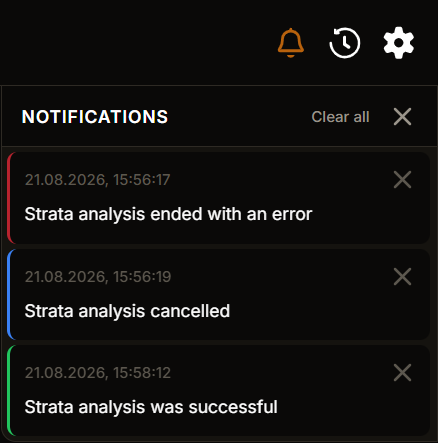
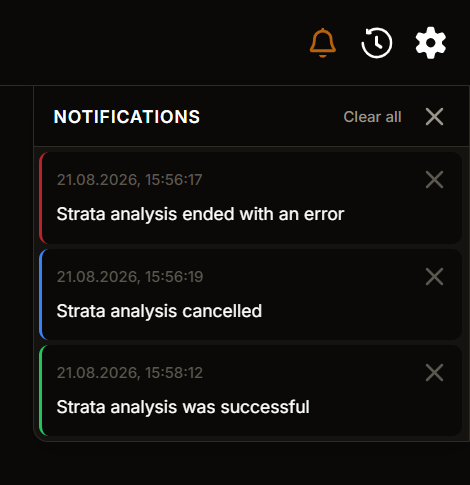
docs: update README.md

diff --git a/README.md b/README.md
@@ -43,8 +43,10 @@ The settings panel allows users to change the application language between Engli
 | <img src="./docs/common/notifications.png" width="300"/> | <img src="./docs/common/analysis_history.png" width="300"/> | <img src="./docs/common/settings.png" width="300"/> |
 
 
-Users interested in the application can visit the About page, accessible from the footer of the interface. It presents the development team behind the project and the technology stack used to build the system, and it also documents the tool’s limitations to help users better understand Strata’s purpose and scope (see the **About** below).
+### About Page
 
-| About |
+Users interested in the application can visit the About Page, accessible from the footer of the interface. It presents the development team behind the project and the technology stack used to build the system, and it also documents the tool’s limitations to help users better understand Strata’s purpose and scope (see the **About Page** below).
+
+| About Page |
 |:---:|
 | <img src="./docs/common/about.png" width="900"/> |
